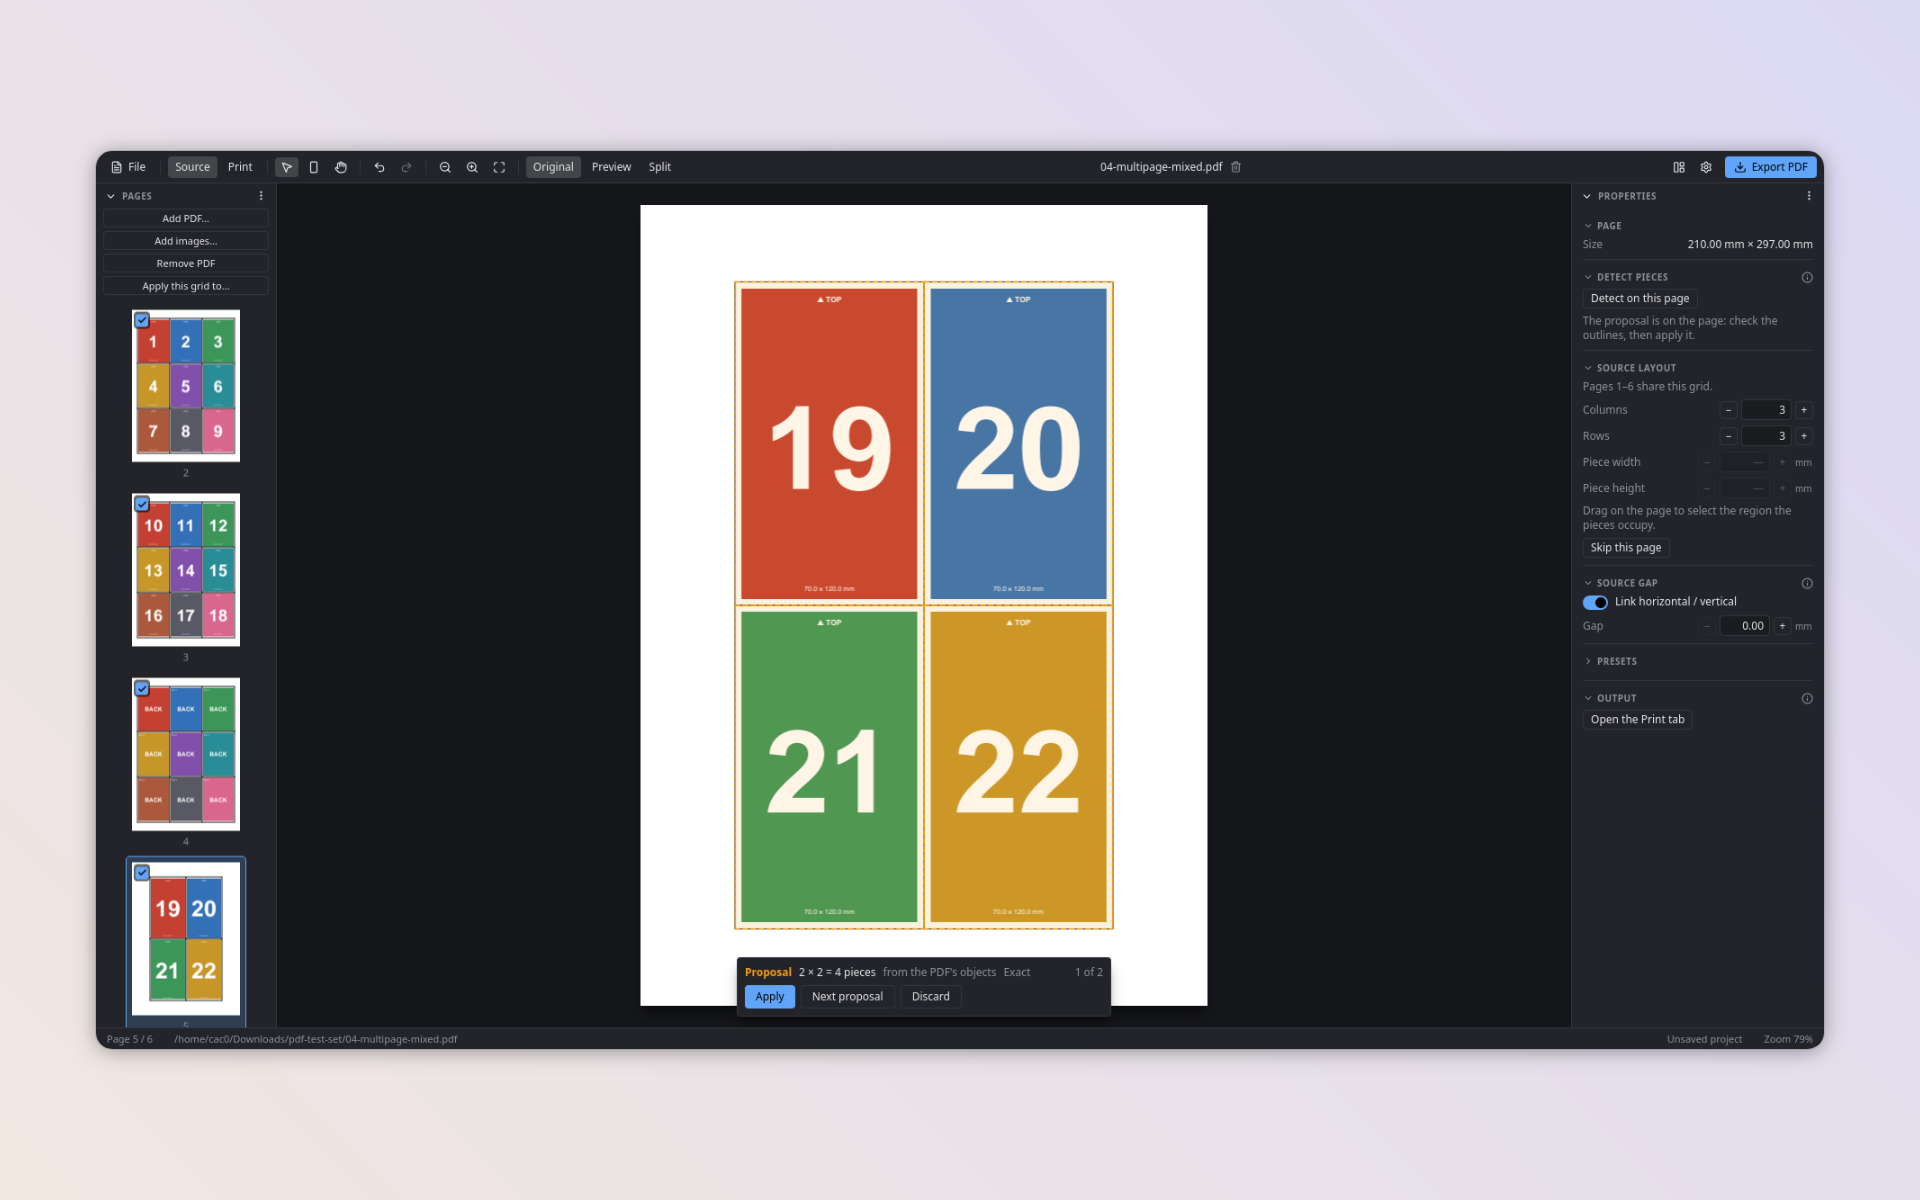
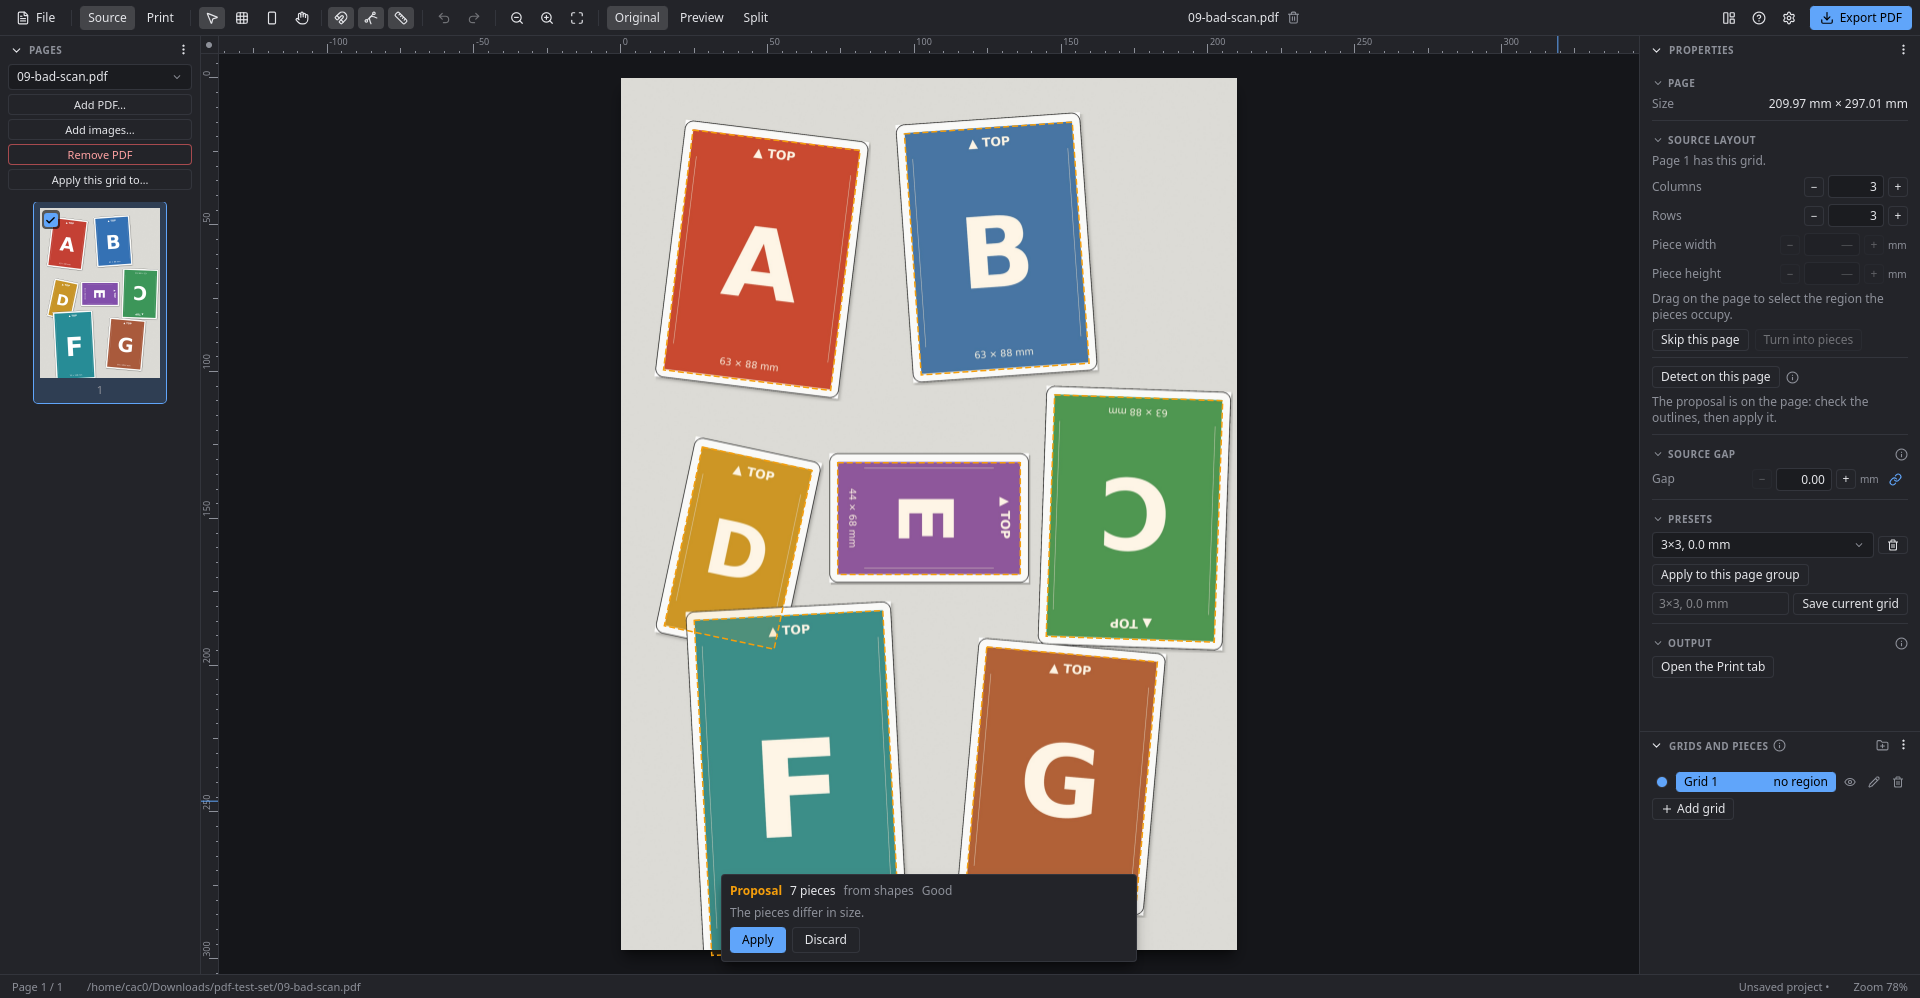
Replace the README screenshots with 1.0.0 ones of several grids, detection, cut marks, gutterfold, tutorials and shortcuts

diff --git a/README.md b/README.md
@@ -18,11 +18,19 @@ Gutterberg turns print-and-play PDFs and card scans into cut-ready sheets: exact
 ![React](https://img.shields.io/badge/React-19-61DAFB?logo=react&logoColor=black)
 ![TypeScript](https://img.shields.io/badge/TypeScript-3178C6?logo=typescript&logoColor=white)
 
-![The Source tab in Split view: the PDF page with its pieces marked on the left, the re-spaced result on the right](assets/screenshots/split-view.png)
+![The Source tab in Split view: a 3 × 3 page of cards with its grid marked on the left, and the same cards re-spaced with gutters on the right](assets/screenshots/split-view.png)
 
-| Print tab | Detect pieces | Several pages |
-| --- | --- | --- |
-| ![The Print tab: the piece library with copies per piece and the sheet it makes](assets/screenshots/print-tab.png) | ![Detect pieces proposing a 2 × 2 grid found from the PDF's own objects](assets/screenshots/detect-pieces.png) | ![A multi-page PDF in the Source tab, with a grid shared by several pages](assets/screenshots/source-tab.png) |
+| Several grids on one page | Detect pieces |
+| --- | --- |
+| ![Two grids of different sizes on one page, in their own colors, grouped in a folder in the Grids and pieces panel](assets/screenshots/several-grids.png) | ![Detect pieces proposing seven pieces, crooked and of different sizes, found on a scan](assets/screenshots/detect-pieces.png) |
+
+| Print tab with cut marks | Gutterfold |
+| --- | --- |
+| ![The Print tab: the piece library and a sheet of cards with dashed cut lines in the gaps](assets/screenshots/print-tab.png) | ![Each card printed with its back beside it, cut apart, with dashed cut marks in the margins](assets/screenshots/gutterfold.png) |
+
+| Tutorials | Keyboard shortcuts |
+| --- | --- |
+| ![The Tutorials list in Preferences, grouped by tab, with a search field](assets/screenshots/tutorials.png) | ![The keyboard shortcuts sheet with its search field](assets/screenshots/shortcuts.png) |
 
 ## Download
 
